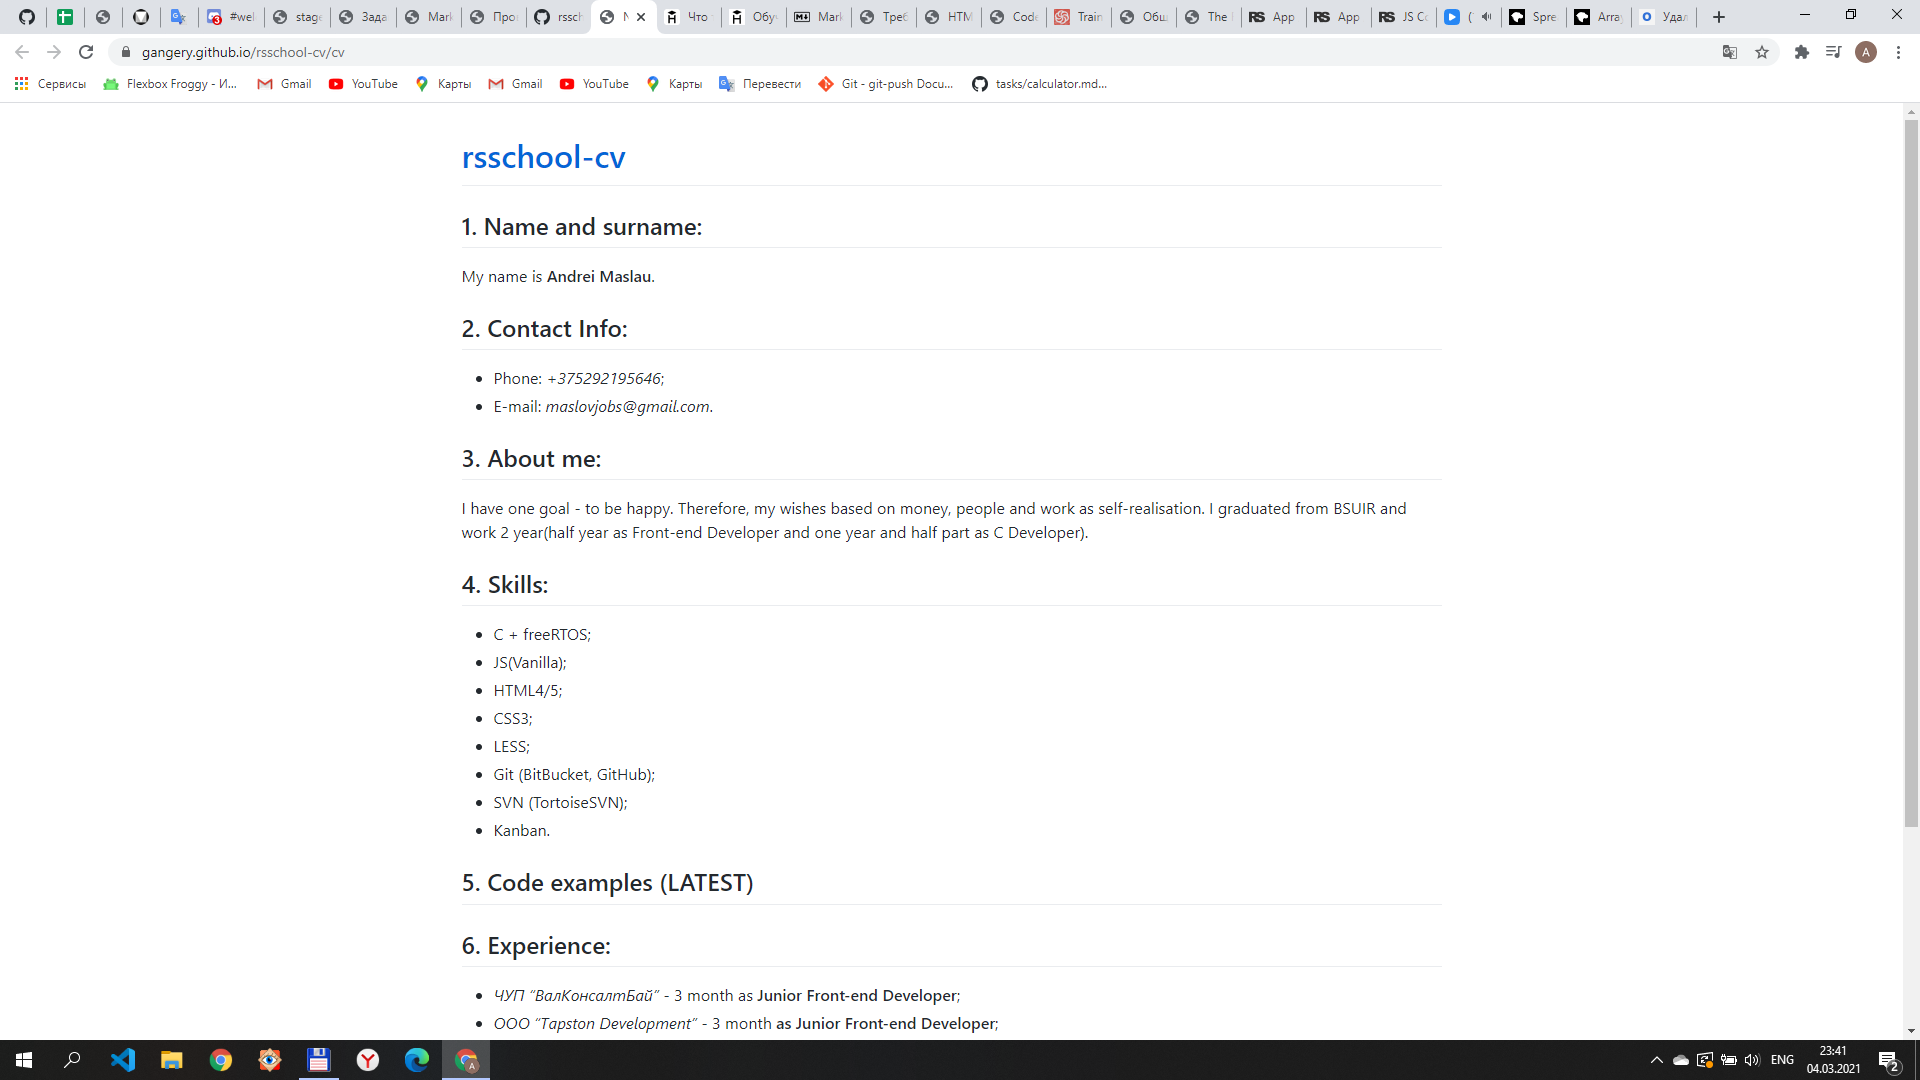
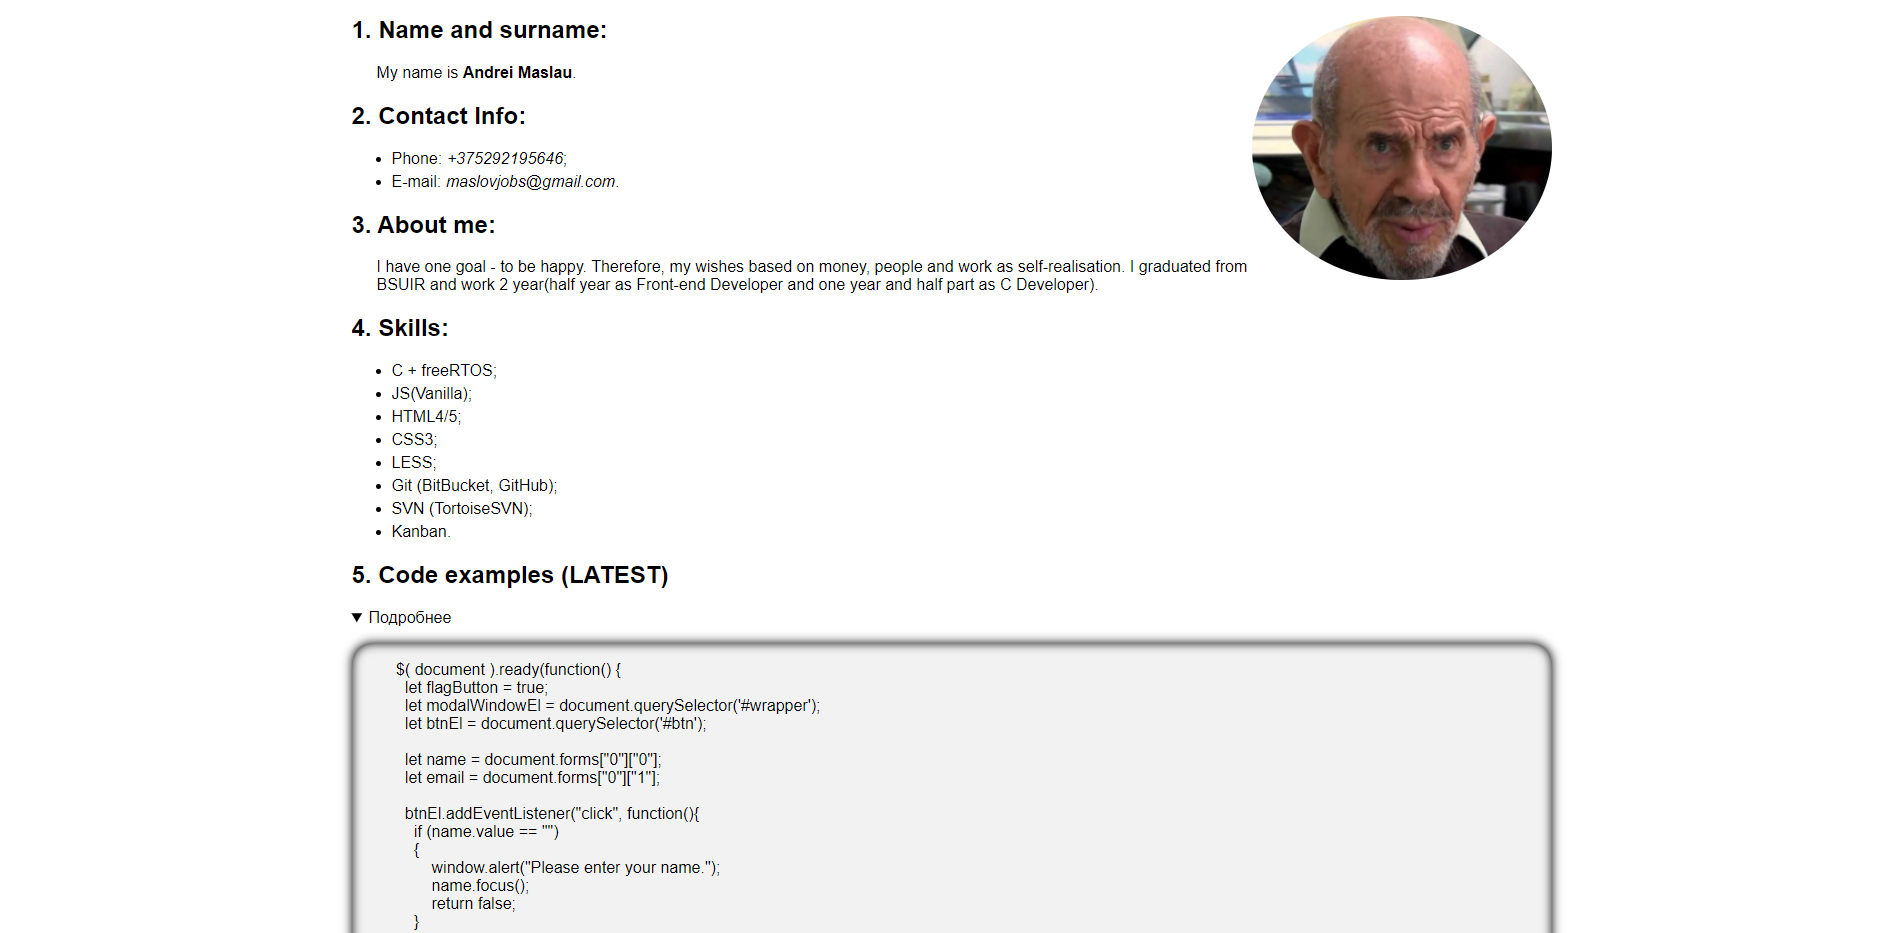
init: start HTML & CSS task

diff --git a/index.html b/index.html
@@ -10,40 +10,126 @@
 
 <body>
   <div class="main-wrapper">
-    <img src="src/30-second_riddle.jpg" alt="" class="selfie">
-    <h2>1. Name and surname:</h2>
-    <p>My name is <strong>Andrei Maslau</strong>.</p>
-    <h2>2. Contact Info:</h2>
-    <ul>
-      <li>Phone: <em>+375292195646</em>;</li>
-      <li>E-mail: <em>maslovjobs@gmail.com</em>.</li>
-    </ul>
-    <h2>3. About me:</h2>
-    <p>I have one goal - to be happy. Therefore, my wishes based on money, people and work as self-realisation. I
-      graduated from BSUIR and work 2 year(half year as Front-end Developer and one year and half part as C Developer).
-    </p>
-    <h2>4. Skills:</h2>
-    <ul>
-      <li>C + freeRTOS;</li>
-      <li>JS(Vanilla);</li>
-      <li>HTML4/5;</li>
-      <li>CSS3;</li>
-      <li>LESS;</li>
-      <li>Git (BitBucket, GitHub);</li>
-      <li>SVN (TortoiseSVN);</li>
-      <li>Kanban.</li>
-    </ul>
-    <h2>5. Code examples (LATEST)</h2>
-    <h2>6. Experience:</h2>
-    <ul>
-      <li><em>ЧУП &quot;ВалКонсалтБай&quot;</em> - 3 month as <strong>Junior Front-end Developer</strong>;</li>
-      <li><em>ООО &quot;Tapston Development&quot;</em> - 3 month <strong>as Junior Front-end Developer</strong>;</li>
-      <li><em>ОАО &quot;АГАТ-СИСТЕМ&quot;</em> - 1,5 year as <strong>Engineer</strong>.</li>
-    </ul>
-    <h2>7. Education:</h2>
-    <p>BSUIR - complete higher education with speciality System Engineer.</p>
-    <h2>8. English skill:</h2>
-    <p><em>English</em> - A2+;</p>
+    <main class="cv-content">
+      <img src="src/30-second_riddle.jpg" alt="selfie" class="selfie">
+
+      <section class="my-name">
+        <h1>1. Name and surname:</h1>
+        <article>My name is <strong>Andrei Maslau</strong>.</article>
+      </section>
+
+      <section class="contacts">
+        <h2>2. Contact Info:</h2>
+        <ul>
+          <li>Phone: <em>+375292195646</em>;</li>
+          <li>E-mail: <em>maslovjobs@gmail.com</em>.</li>
+        </ul>
+      </section>
+
+      <section class="about-me">
+        <h2>3. About me:</h2>
+        <article>I have one goal - to be happy. Therefore, my wishes based on money, people and work as
+          self-realisation.
+          I
+          graduated from BSUIR and work 2 year(half year as Front-end Developer and one year and half part as C
+          Developer).
+        </article>
+      </section>
+
+      <section class="skills">
+        <h2>4. Skills:</h2>
+        <ul>
+          <li>C + freeRTOS;</li>
+          <li>JS(Vanilla);</li>
+          <li>HTML4/5;</li>
+          <li>CSS3;</li>
+          <li>LESS;</li>
+          <li>Git (BitBucket, GitHub);</li>
+          <li>SVN (TortoiseSVN);</li>
+          <li>Kanban.</li>
+        </ul>
+      </section>
+
+      <section class="code-example">
+        <h2>5. Code examples (LATEST)</h2>
+        <details class="code-example__hiding-place">
+          <pre class="code-example__content"><code class="code-example__first-example">
+          $( document ).ready(function() {
+            let flagButton = true;
+            let modalWindowEl = document.querySelector('#wrapper');
+            let btnEl = document.querySelector('#btn');
+          
+            let name = document.forms["0"]["0"];               
+            let email = document.forms["0"]["1"];  
+          
+            btnEl.addEventListener("click", function(){
+              if (name.value == "")                                  
+              { 
+                  window.alert("Please enter your name."); 
+                  name.focus(); 
+                  return false; 
+              }
+              if (email.value == "")                                   
+              { 
+                  window.alert("Please enter a valid e-mail address."); 
+                  email.focus(); 
+                  return false; 
+              } 
+             
+              if (email.value.indexOf("@", 0) < 0)                 
+              { 
+                  window.alert("Please enter a valid e-mail address."); 
+                  email.focus(); 
+                  return false; 
+              } 
+             
+              if (email.value.indexOf(".", 0) < 0)                 
+              { 
+                  window.alert("Please enter a valid e-mail address."); 
+                  email.focus(); 
+                  return false; 
+              } 
+                if(flagButton){
+                  sendAjaxForm('result_form', 'ajax_form', 'action_ajax_form.php');
+                  flagButton = false;
+                return false;
+              }
+            });
+          
+          });
+          </code></pre>
+        </details>
+      </section>
+
+      <section class="expirience">
+        <h2>6. Experience:</h2>
+        <ul>
+          <li><em>ЧУП &quot;ВалКонсалтБай&quot;</em>
+            <details>3 month as <strong>Junior Front-end Developer</strong></details>
+          </li>
+          <li><em>ООО &quot;Tapston Development&quot;</em>
+            <details>3 month <strong>as Junior Front-end Developer</strong></details>
+          </li>
+          <li><em>ОАО &quot;АГАТ-СИСТЕМ&quot;</em>
+            <details>1,5 year as <strong>Engineer</strong></details>
+          </li>
+        </ul>
+      </section>
+
+      <section class="education">
+        <h2>7. Education:</h2>
+        <article>BSUIR - complete higher education with speciality System Engineer.</article>
+      </section>
+
+      <section class="english-skill">
+        <h2>8. English skill:</h2>
+        <article><em>English</em> - A2+;</article>
+      </section>
+    </main>
+    <footer class="main-footer">
+      <img src="src/rsschool-logo.png" alt="rs-logo" class="rs-logo">
+      <a href="https://rs.school/js/" class="rs-course">RolligScopes courses HERE</a>
+    </footer>
   </div>
 </body>
 

diff --git a/style/style.css b/style/style.css
@@ -14,12 +14,47 @@
   float: right;
 }
 
-p {
+article {
   padding-left: 25px;
 }
 
 li {
   margin-bottom: 5px;
+}
+
+a{
+  text-decoration: none;
+  color: black;
+}
+
+a:visited{
+  text-decoration: none;
+  color: black;
+}
+
+.code-example__content {
+  background-color: #f2f2f2;
+  border-radius: 20px;
+  box-shadow: 0px 0px 10px 0px #000;
+}
+
+.code-example__first-example {
+  display: block;
+  width: 100%;
+  border-radius: 20px;
+  box-shadow: inset 0px 0px 10px 0px #000;
+}
+
+.rs-logo{
+  width: 200px;
+  margin-right: 50px;
+}
+
+.main-footer{
+  display: flex;
+  flex-direction: row;
+  align-items: center;
+  justify-content: center;
 }
 
 /*.declaration-order {
